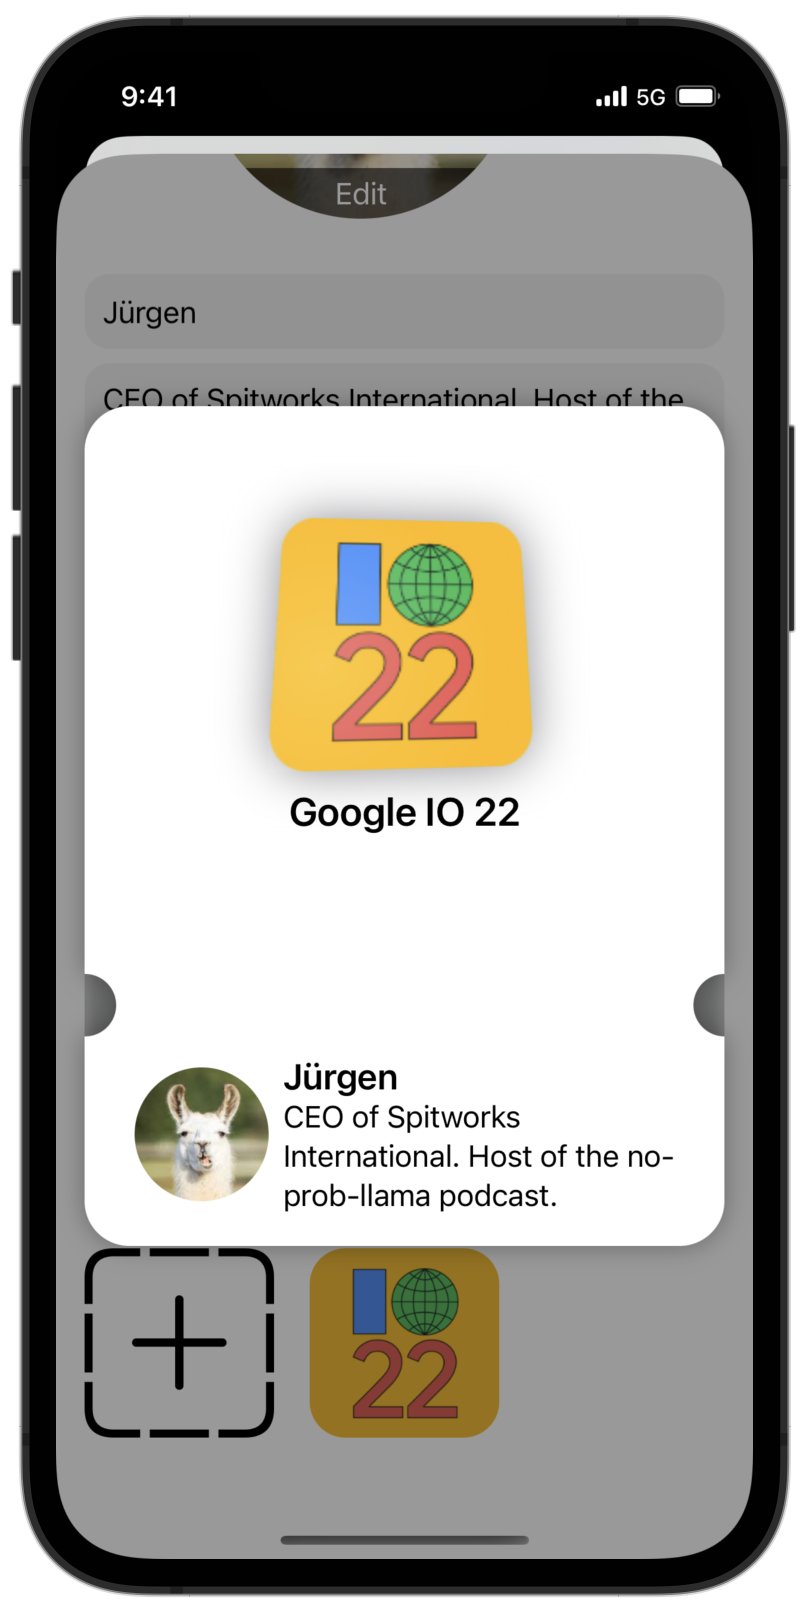
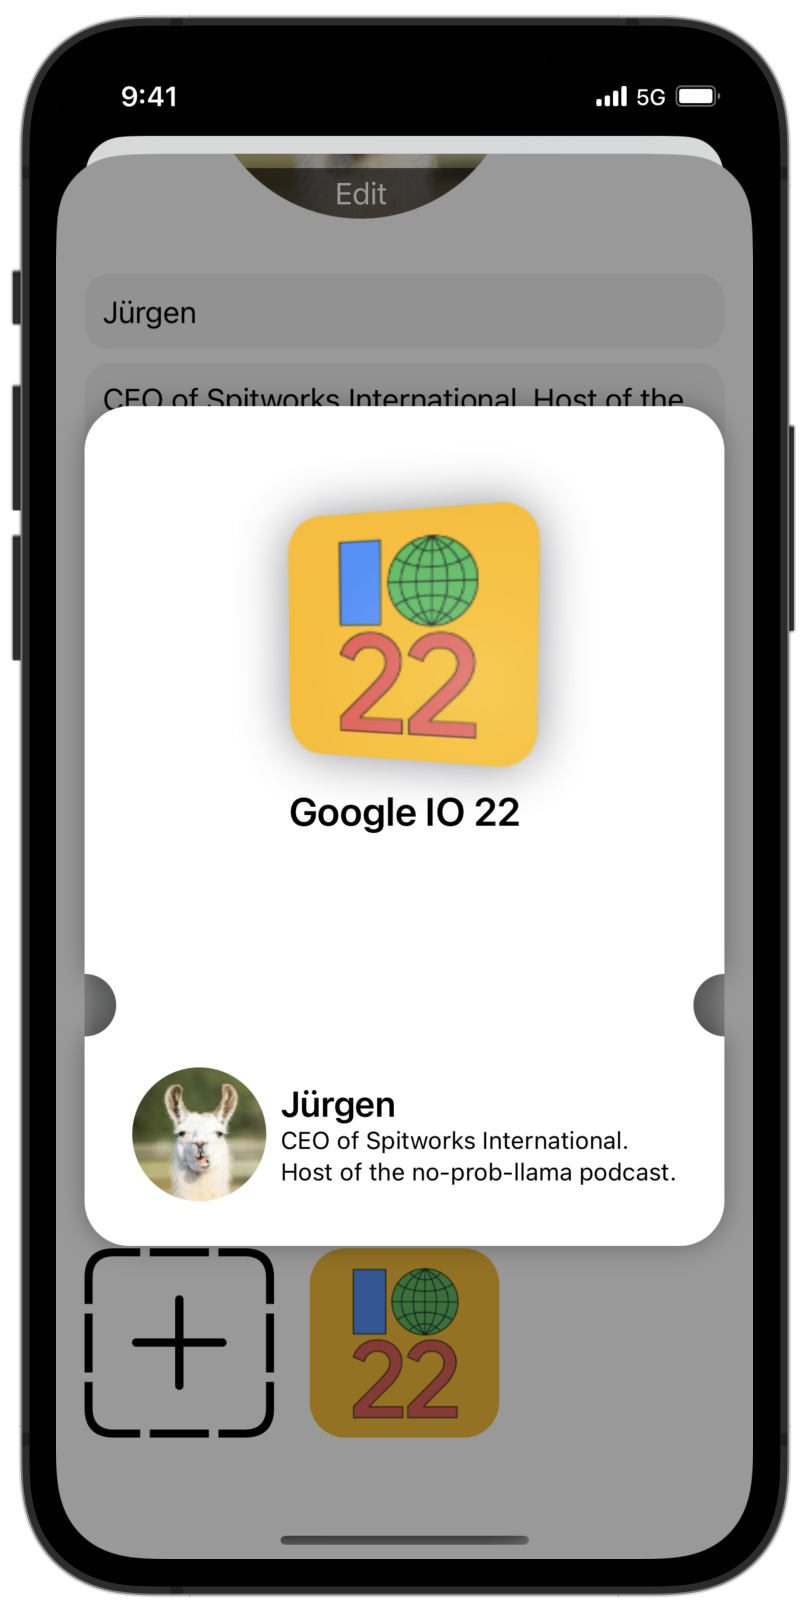
Minor change

Changed region(s): [[0.1547, 0.6562, 0.8354, 0.75], [0.3094, 0.2812, 0.6807, 0.5]]

diff --git a/StickerMate/views/StickerCard.swift b/StickerMate/views/StickerCard.swift
@@ -51,7 +51,8 @@ struct StickerCard: View {
                 VStack(alignment: .leading) {
                     Text(creator?.username ?? "Creator").font(.title3.weight(.semibold))
                     Text(creator?.biography ?? "The creator of this event.")
-                        .lineLimit(3)
+                        .lineLimit(2)
+                        .minimumScaleFactor(0.8)
                         .multilineTextAlignment(.leading)
                         .fixedSize(horizontal: false, vertical: true)
                 }
